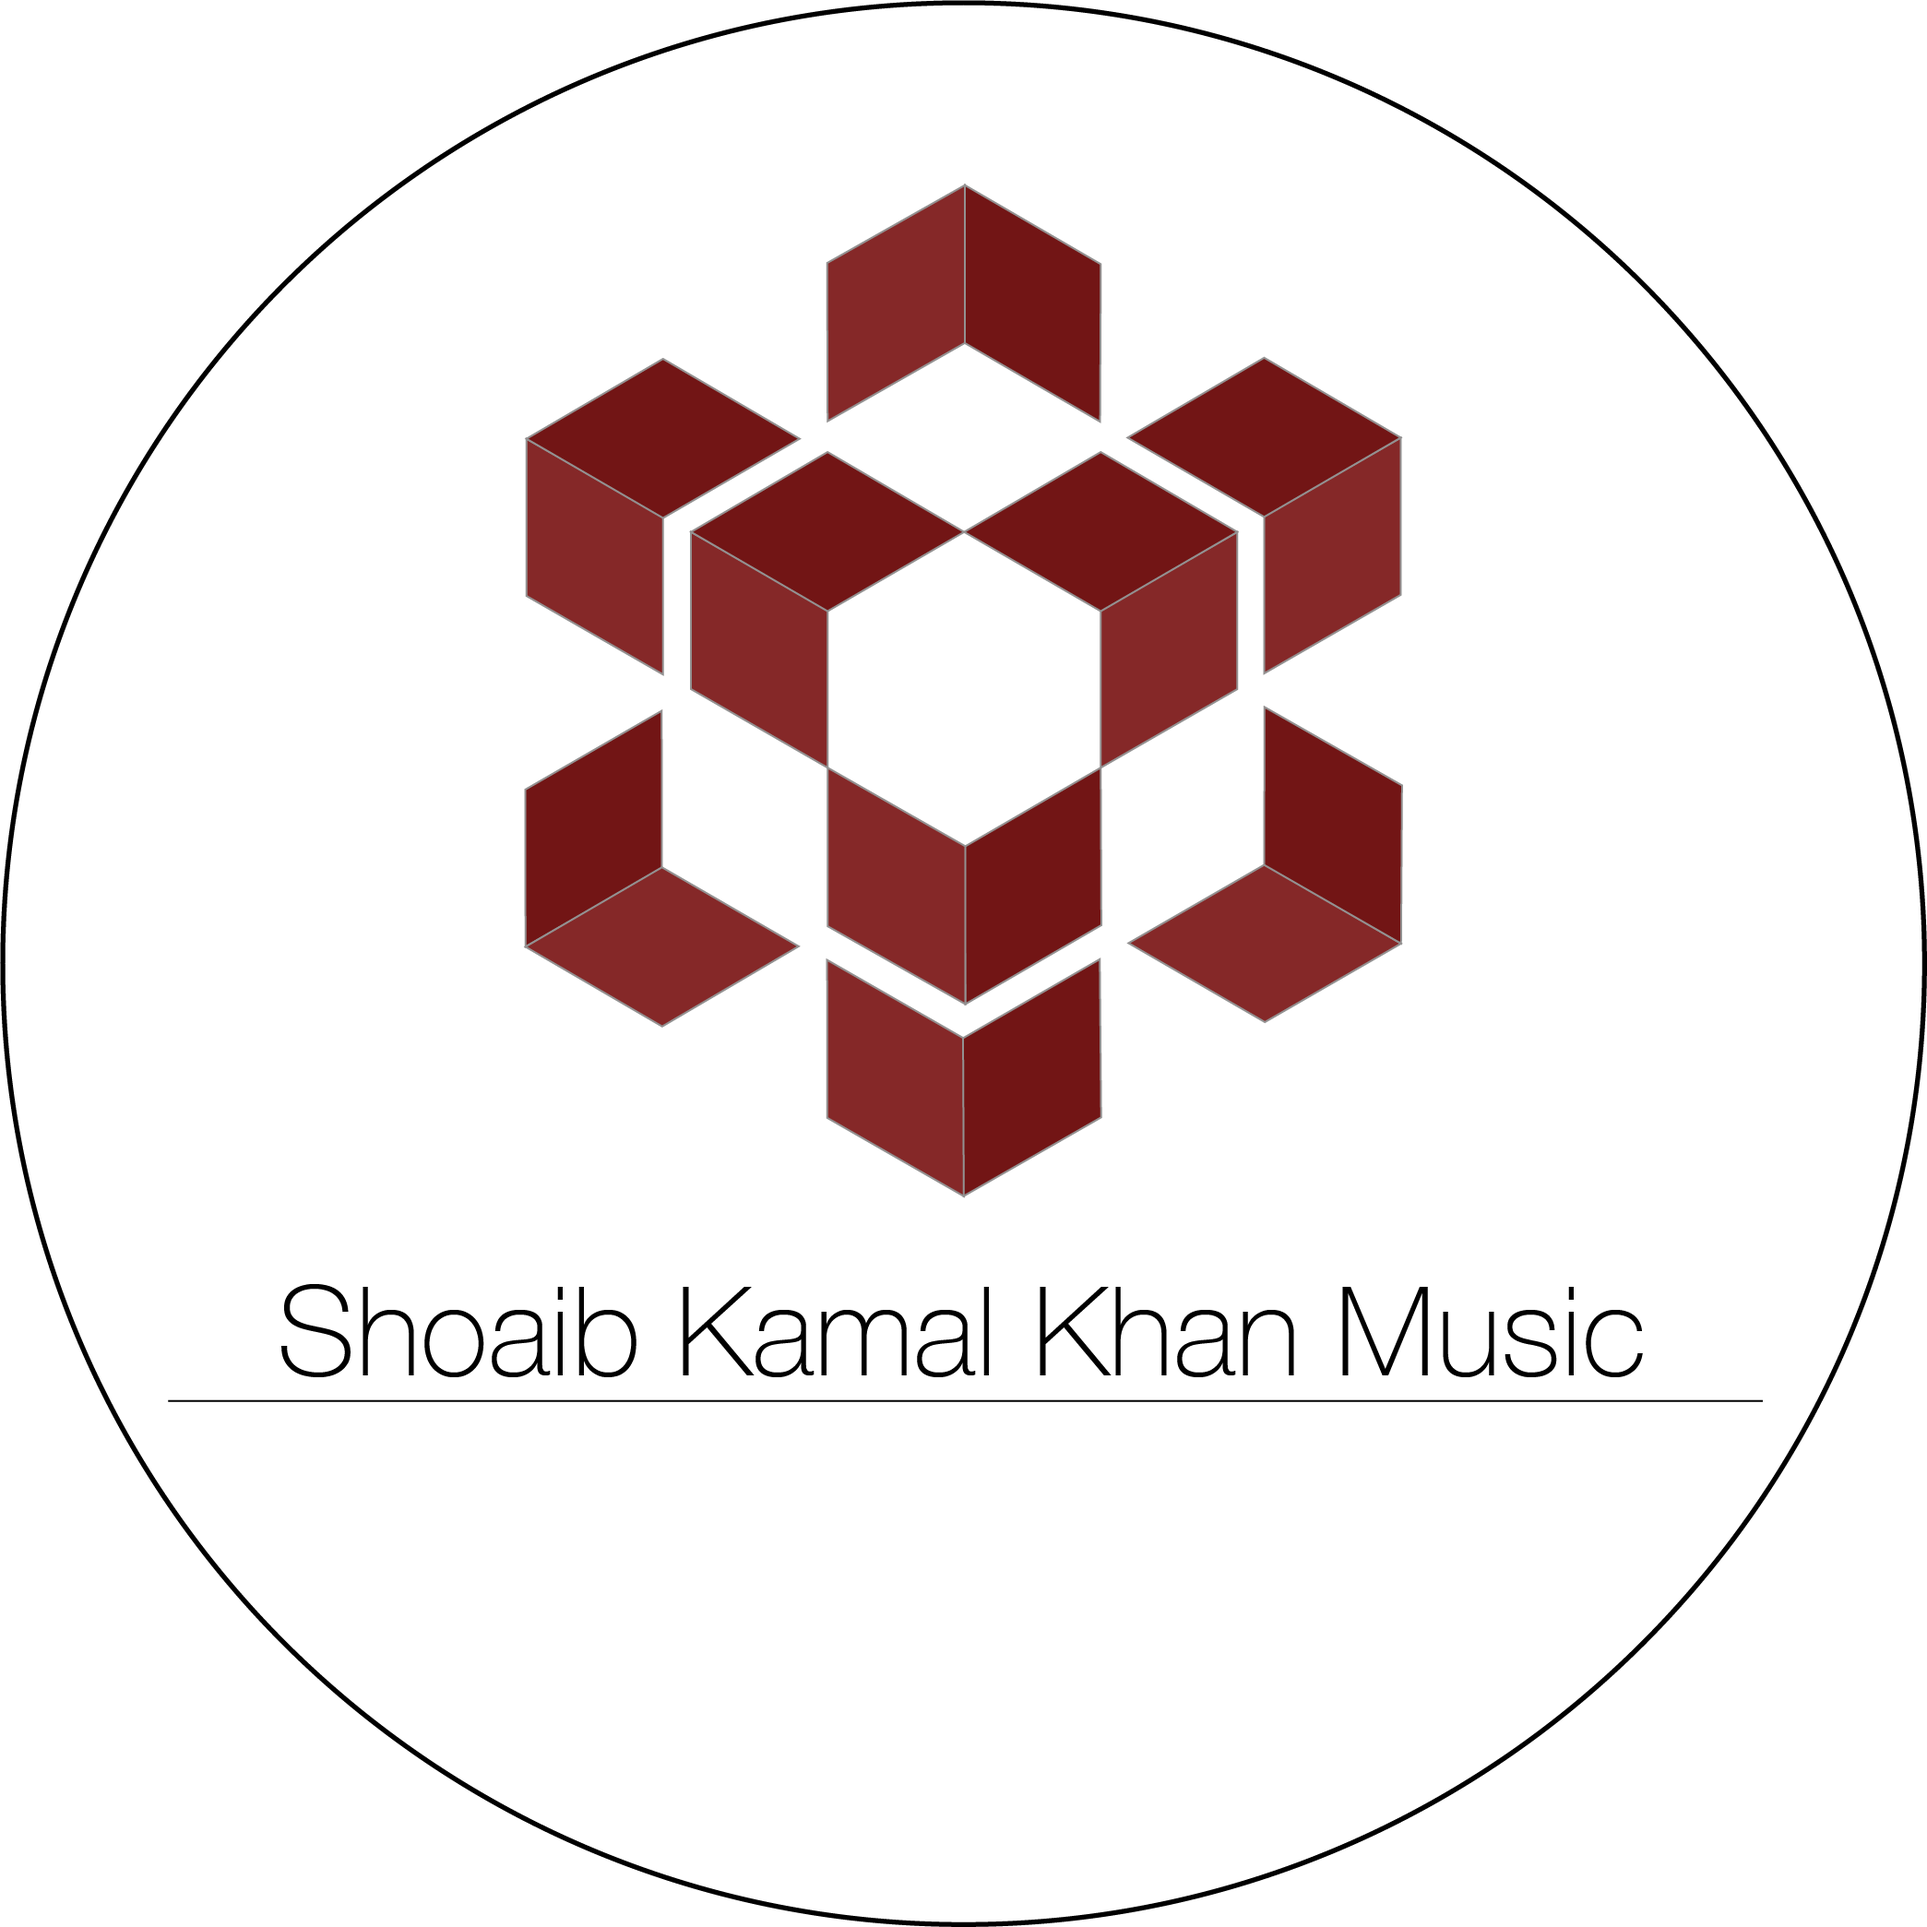
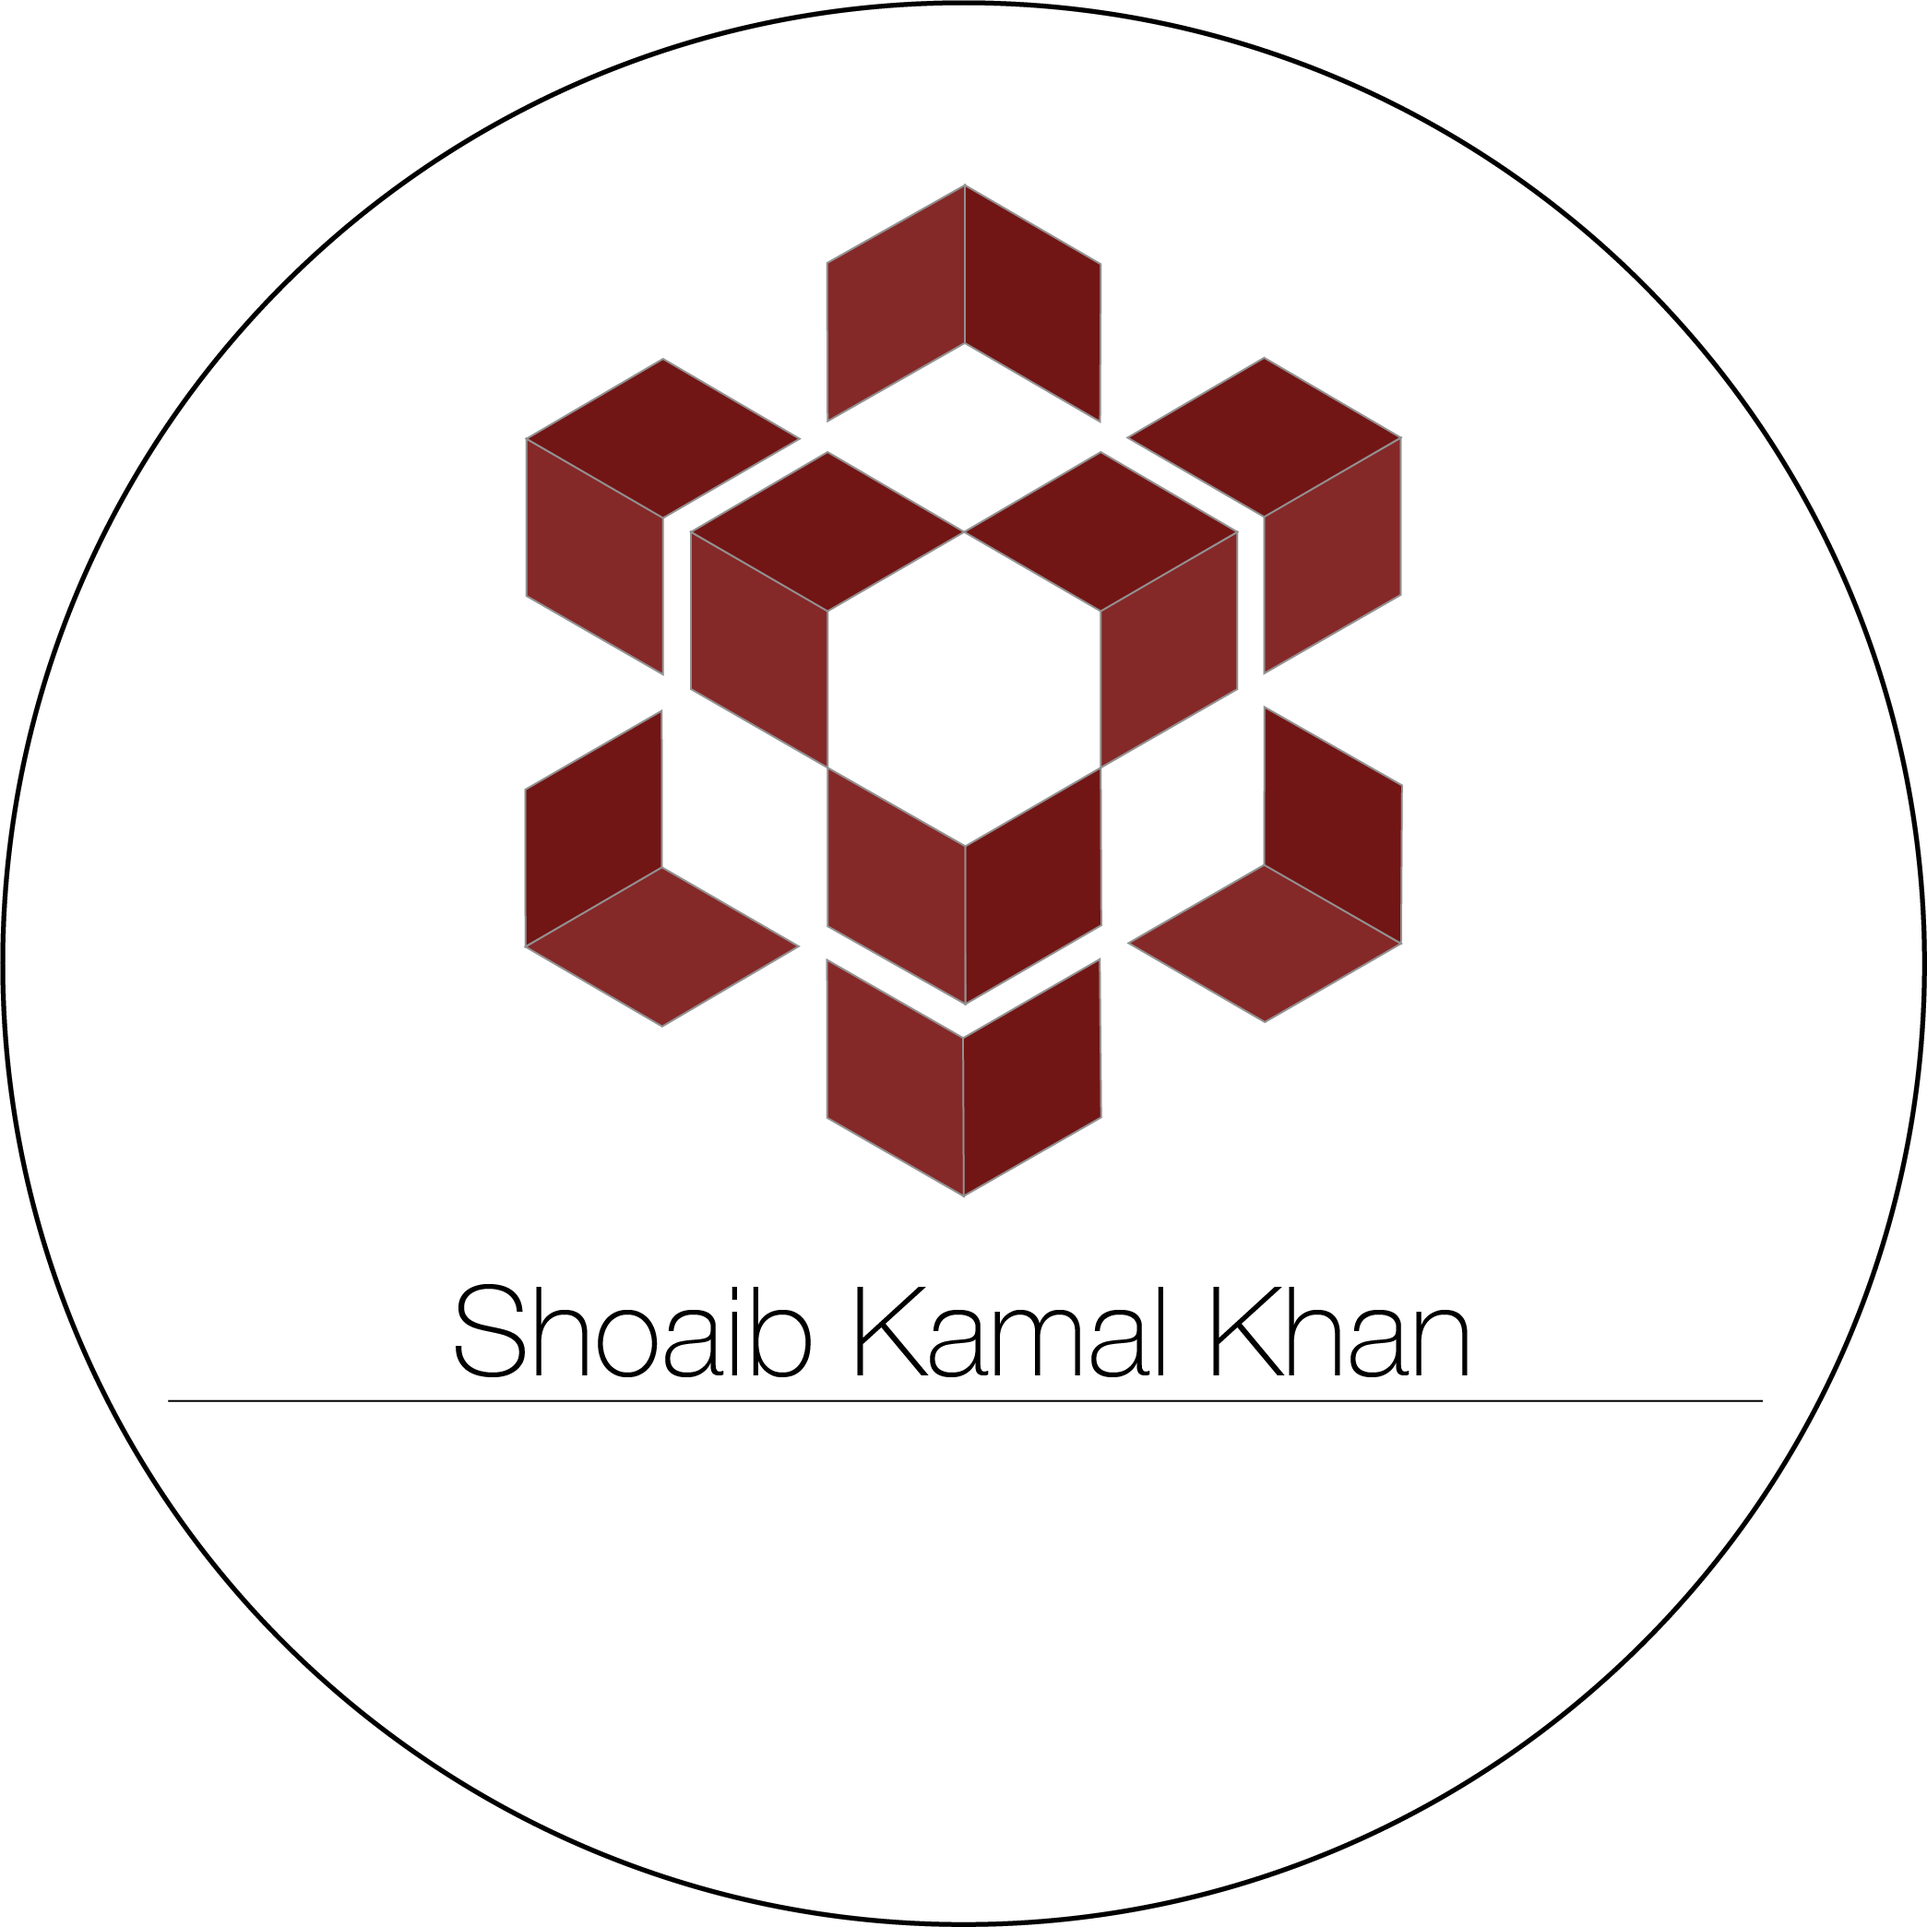
Updated HTML content & CSS

Changed region(s): [[0.1556, 0.6534, 0.8401, 0.7157]]

diff --git a/interests.html b/interests.html
@@ -30,25 +30,25 @@
         <h2>Interests</h2>
         
         <h3 class="ud-tx">Pianist</h3>
-        <p>I am an accomplished Classical and Jazz pianist. I have been studying and playing since 2009. I play piano over arranged and composed breaks and loops in Logic Pro X from the following various geners Jazz, Drum & Bass, Ambient, Chillout, Downtempo and Soulful House and other styles of arranged and composed breaks and loops. I also record YouTube videos of all my tracks and jam sessions and make the audio and video media available to purchase through Apple Music and all other worldwide distributors and through the audio media portal SoundCloud. I use a Yamaha YDP-161 Digital Piano for all my arrangements and compostions recorded into Logic Pro X and mastered with LANDR.</p>
+        <p>I am an accomplished Classical and Jazz pianist. I have been studying and playing since 2009. I play piano over arranged and composed breaks and loops in Logic Pro X from the following various genre's, Jazz, Drum & Bass, Soulful House, Downtempo, Chillout and Ambient and other styles of arranged and composed breaks and loops. I also record YouTube videos of all my tracks and jam sessions and make the audio and video media available to purchase through Apple Music and all other worldwide distributors and through the audio media portal SoundCloud. I use a Yamaha YDP-161 Digital Piano for all my arrangements and compostions recorded into Logic Pro X and mastered with LANDR.</p>
 
         <h3 class="ud-tx">Guitarist</h3>
-        <p>I am an accomplished Jazz, Rock, Ambient and Classical guitarist. I have been studying and playing since 2015. I play guitar over arranged and composed breaks and loops in Logic Pro X from the following various geners Jazz, Drum & Bass, Ambient, Chillout, Downtempo and Soulful House and other styles of arranged and composed breaks and loops. I also record YouTube videos of all my tracks and jam sessions and make the audio and video media available to purchase through Apple Music and all other worldwide distributors and through the audio media portal SoundCloud. I use an Epiphone Les Paul Traditional Pro Limited Edition in matte black for all my arrangements and compostions recorded into Logic Pro X and mastered with LANDR.</p>
+        <p>I am an accomplished Jazz, Rock, Classical and Ambient guitarist. I have been studying and playing since 2015. I play guitar over arranged and composed breaks and loops in Logic Pro X from the following various genre's, Jazz, Drum & Bass, Soulful House, Downtempo, Chillout and Ambient and other styles of arranged and composed breaks and loops. I also record YouTube videos of all my tracks and jam sessions and make the audio and video media available to purchase through Apple Music and all other worldwide distributors and through the audio media portal SoundCloud. I use an Epiphone Les Paul Traditional Pro Limited Edition in matte black for all my arrangements and compostions recorded into Logic Pro X and mastered with LANDR.</p>
 
         <h3 class="ud-tx">Rudimental & Drumset Drummer</h3>
         <p>I am an accomplished rudimental drummer and drumset drummer who plays Marching, Jazz, Funk, Drum & Bass, House, and Downtempo. I also record YouTube videos of all my tracks and jam sessions and make the audio and video media available to purchase through Apple Music and all other worldwide distributors and through the audio media portal SoundCloud. I use a 12-inch Vater Double-Sided Practice Pad and a Sonor AQ2 Series Bop Kit with Meinl Byzance Series Cymbals for all my arrangements and compostions recorded into Logic Pro X and mastered with LANDR.</p>
 
         <h3 class="ud-tx">Dj/Mixing Artist</h3>
-        <p>I am an accomplished Dj/Mixing Artist. I have been playing as a Dj/Mixing Artist since 1994. I play Soulful House, Drum & Bass, Downtempo, Ambient and Chillout. I make all of my mixes available for download through podcasts on Apple Music and through the audio media portal SoundCloud. I use Pioneer CDJ-2000NXS2 Players and Technics SL-1200MK7 Turntables with Serato DJ and I also use vinyl. All of my performances recorded into Logic Pro X and are mastered with LANDR.</p>
+        <p>I am an accomplished Dj/Mixing Artist. I have been playing as a Dj/Mixing Artist since 1994. I play Soulful House, Drum & Bass, Downtempo, Chillout and Ambient. I make all of my mixes available for download through podcasts on Apple Music and through the audio media portal SoundCloud. I use Pioneer CDJ-2000NXS2 Players and Technics SL-1200MK7 Turntables with Serato DJ and I also use vinyl. All of my performances are recorded into Logic Pro X and are mastered with LANDR.</p>
 
         <h3 class="ud-tx">Music Producer</h3>
-        <p>I am an accomplished Music Producer. I have been producing since 1999. I make arrangements and compostions of Ambient Drum & Bass, Drum Funk, Neurofunk, Downtempo, Soulful House, Ambient and Chillout and other styles. I use mostly royalty free and original content as my sound sources. I use a Native Instruments Komplete Kontrol S88 88 Key MIDI Controller and an Apple MacBook Pro and Logic Pro X for all my arrangements and compostions. All of my tracks are mastered with LANDR.</p>
+        <p>I am an accomplished Music Producer. I have been producing since 1999. I make arrangements and compostions of Ambient Drum & Bass, Drum Funk, Neurofunk, Downtempo, Soulful House, Chillout and Ambient and other styles. I use mostly royalty free and original content as my sound sources. I use a Native Instruments Komplete Kontrol S88 88 Key MIDI Controller and an Apple MacBook Pro and Logic Pro X for all my arrangements and compostions. All of my tracks are mastered with LANDR.</p>
 
         <section>
           <h2 class="sd-ct-tx">SoundCloud Page</h2>
           <p class="sd-ct-tx">Please see my SoundCloud page for all my audio media:</p>
           <img class="sd-image" src="images/skkm-soundcloud.png" alt="Shoaib Kamal Khan Music Logo">
-          <a class="sd-ct-tx sd-link" href="https://soundcloud.com/shoaibkamalkhan" target="_blank">Shoaib Kamal Khan Music</a>
+          <a class="sd-ct-tx sd-link" href="https://soundcloud.com/shoaibkamalkhan" target="_blank">Shoaib Kamal Khan</a>
         </section>
       </section> 
 

diff --git a/styles.css b/styles.css
@@ -273,6 +273,7 @@ form {
   width: 100%;
   color: black;
   font-size: 16px;
+  font-weight: normal;
   margin-bottom: 19.92px;
   background-color: #F0F0F0;
   border-color: #d3d3d3;
